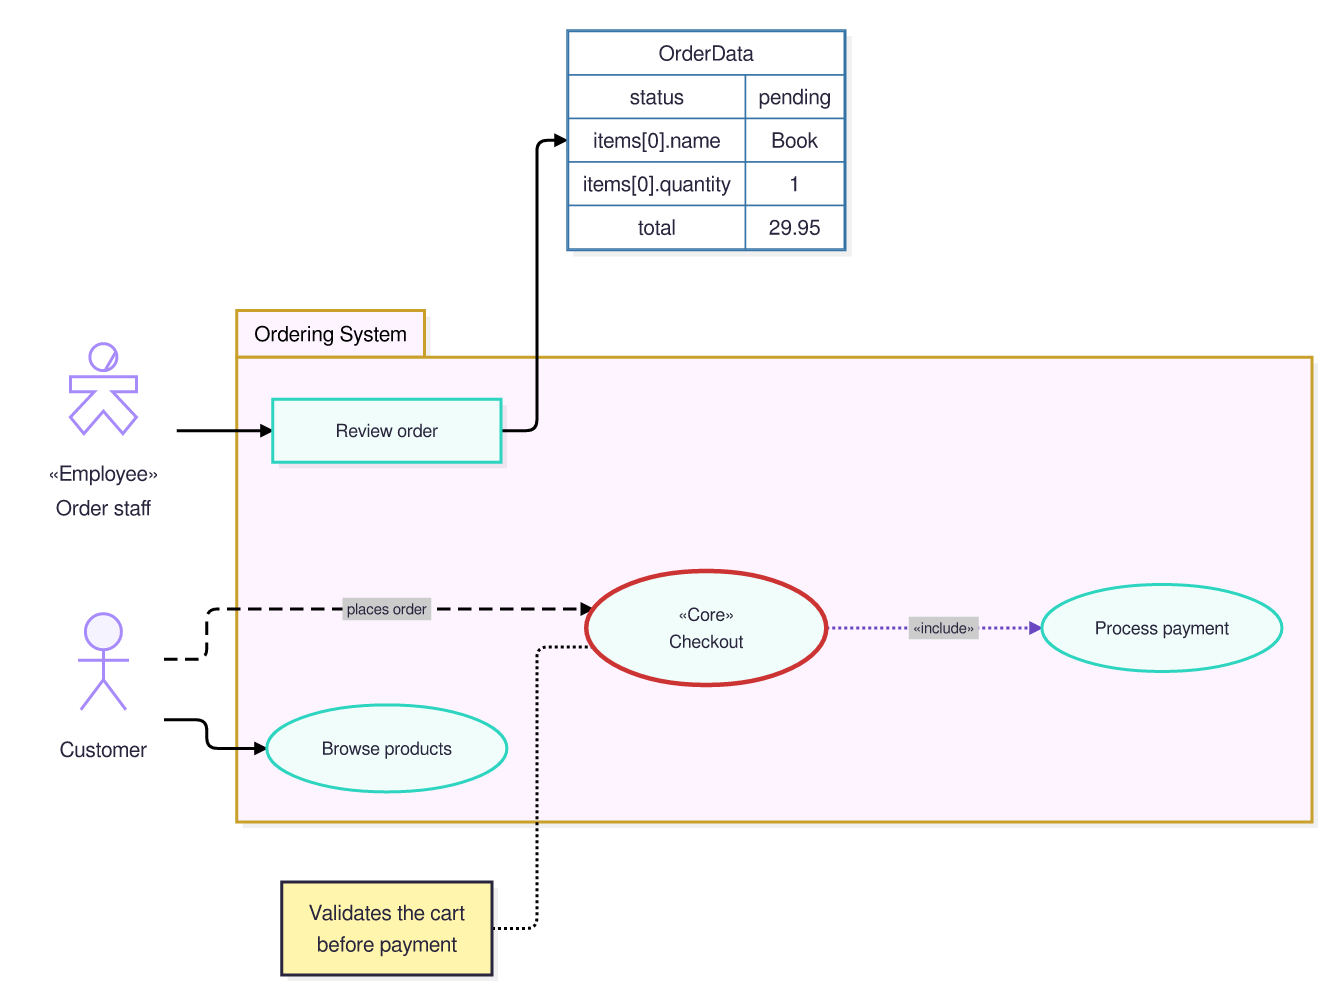
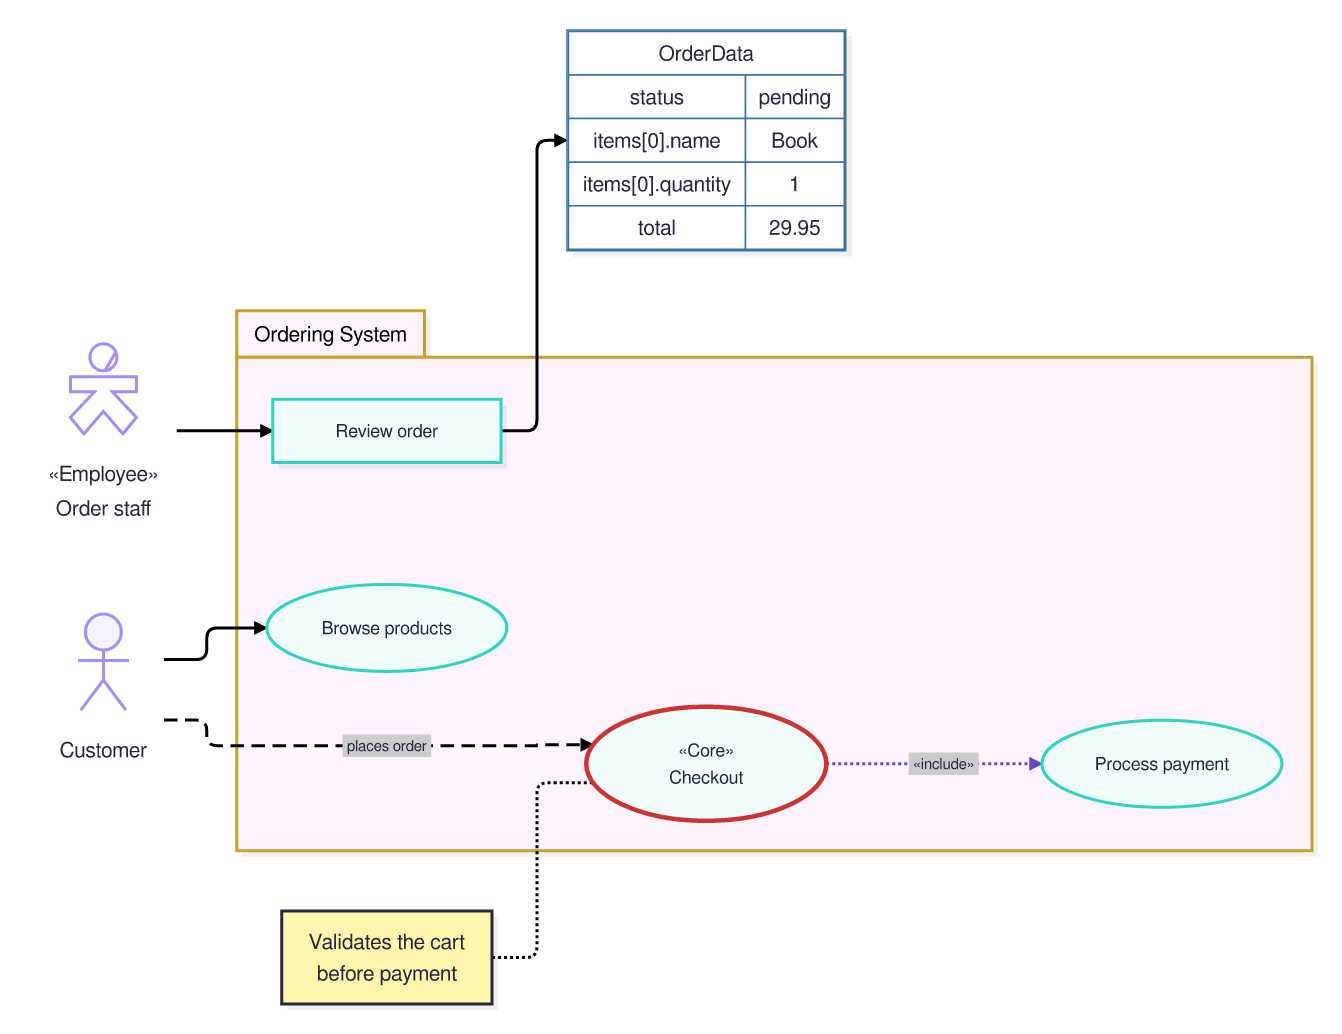
Regenerate gallery after ELK crossing minimisation
Claude-Session: https://claude.ai/code/session_01YSBvDqvT7DHspcB7hQZR6n

diff --git a/docs/GALLERY.md b/docs/GALLERY.md
@@ -5,7 +5,7 @@ Regenerate with `cargo run --release --example gallery`.
 
 ## agentflow
 
-Source: [`examples/diagrams/agentflow.mmd`](../examples/diagrams/agentflow.mmd) · rendered in 642.81µs
+Source: [`examples/diagrams/agentflow.mmd`](../examples/diagrams/agentflow.mmd) · rendered in 679.32µs
 
 <details><summary>source</summary>
 
@@ -37,7 +37,7 @@ agentflow-beta TB
 
 ## architecture
 
-Source: [`examples/diagrams/architecture.mmd`](../examples/diagrams/architecture.mmd) · rendered in 255.14µs
+Source: [`examples/diagrams/architecture.mmd`](../examples/diagrams/architecture.mmd) · rendered in 212.35µs
 
 <details><summary>source</summary>
 
@@ -74,7 +74,7 @@ architecture-beta
 
 ## block
 
-Source: [`examples/diagrams/block.mmd`](../examples/diagrams/block.mmd) · rendered in 242.87µs
+Source: [`examples/diagrams/block.mmd`](../examples/diagrams/block.mmd) · rendered in 217.16µs
 
 <details><summary>source</summary>
 
@@ -109,7 +109,7 @@ block-beta
 
 ## c4-container
 
-Source: [`examples/diagrams/c4-container.mmd`](../examples/diagrams/c4-container.mmd) · rendered in 579.52µs
+Source: [`examples/diagrams/c4-container.mmd`](../examples/diagrams/c4-container.mmd) · rendered in 506.47µs
 
 <details><summary>source</summary>
 
@@ -154,7 +154,7 @@ C4Container
 
 ## c4
 
-Source: [`examples/diagrams/c4.mmd`](../examples/diagrams/c4.mmd) · rendered in 469.22µs
+Source: [`examples/diagrams/c4.mmd`](../examples/diagrams/c4.mmd) · rendered in 947.71µs
 
 <details><summary>source</summary>
 
@@ -209,7 +209,7 @@ C4Context
 
 ## class
 
-Source: [`examples/diagrams/class.mmd`](../examples/diagrams/class.mmd) · rendered in 283.74µs
+Source: [`examples/diagrams/class.mmd`](../examples/diagrams/class.mmd) · rendered in 365.20µs
 
 <details><summary>source</summary>
 
@@ -249,7 +249,7 @@ classDiagram
 
 ## cynefin
 
-Source: [`examples/diagrams/cynefin.mmd`](../examples/diagrams/cynefin.mmd) · rendered in 177.77µs
+Source: [`examples/diagrams/cynefin.mmd`](../examples/diagrams/cynefin.mmd) · rendered in 188.29µs
 
 <details><summary>source</summary>
 
@@ -285,7 +285,7 @@ cynefin-beta
 
 ## er-subgraphs
 
-Source: [`examples/diagrams/er-subgraphs.mmd`](../examples/diagrams/er-subgraphs.mmd) · rendered in 426.36µs
+Source: [`examples/diagrams/er-subgraphs.mmd`](../examples/diagrams/er-subgraphs.mmd) · rendered in 484.02µs
 
 <details><summary>source</summary>
 
@@ -325,7 +325,7 @@ erDiagram
 
 ## er
 
-Source: [`examples/diagrams/er.mmd`](../examples/diagrams/er.mmd) · rendered in 365.62µs
+Source: [`examples/diagrams/er.mmd`](../examples/diagrams/er.mmd) · rendered in 395.36µs
 
 <details><summary>source</summary>
 
@@ -377,7 +377,7 @@ erDiagram
 
 ## eventmodeling
 
-Source: [`examples/diagrams/eventmodeling.mmd`](../examples/diagrams/eventmodeling.mmd) · rendered in 170.12µs
+Source: [`examples/diagrams/eventmodeling.mmd`](../examples/diagrams/eventmodeling.mmd) · rendered in 178.57µs
 
 <details><summary>source</summary>
 
@@ -401,7 +401,7 @@ tf 08 rmo CartItems ->> 03 ->> 07
 
 ## flowchart
 
-Source: [`examples/diagrams/flowchart.mmd`](../examples/diagrams/flowchart.mmd) · rendered in 328.31µs
+Source: [`examples/diagrams/flowchart.mmd`](../examples/diagrams/flowchart.mmd) · rendered in 355.20µs
 
 <details><summary>source</summary>
 
@@ -429,7 +429,7 @@ flowchart TD
 
 ## gantt
 
-Source: [`examples/diagrams/gantt.mmd`](../examples/diagrams/gantt.mmd) · rendered in 795.85µs
+Source: [`examples/diagrams/gantt.mmd`](../examples/diagrams/gantt.mmd) · rendered in 1.28ms
 
 <details><summary>source</summary>
 
@@ -469,7 +469,7 @@ gantt
 
 ## gitgraph
 
-Source: [`examples/diagrams/gitgraph.mmd`](../examples/diagrams/gitgraph.mmd) · rendered in 195.77µs
+Source: [`examples/diagrams/gitgraph.mmd`](../examples/diagrams/gitgraph.mmd) · rendered in 214.04µs
 
 <details><summary>source</summary>
 
@@ -507,7 +507,7 @@ gitGraph
 
 ## info
 
-Source: [`examples/diagrams/info.mmd`](../examples/diagrams/info.mmd) · rendered in 106.78µs
+Source: [`examples/diagrams/info.mmd`](../examples/diagrams/info.mmd) · rendered in 105.85µs
 
 <details><summary>source</summary>
 
@@ -521,7 +521,7 @@ info showInfo
 
 ## ishikawa
 
-Source: [`examples/diagrams/ishikawa.mmd`](../examples/diagrams/ishikawa.mmd) · rendered in 152.53µs
+Source: [`examples/diagrams/ishikawa.mmd`](../examples/diagrams/ishikawa.mmd) · rendered in 159.72µs
 
 <details><summary>source</summary>
 
@@ -554,7 +554,7 @@ ishikawa-beta
 
 ## journey
 
-Source: [`examples/diagrams/journey.mmd`](../examples/diagrams/journey.mmd) · rendered in 249.18µs
+Source: [`examples/diagrams/journey.mmd`](../examples/diagrams/journey.mmd) · rendered in 445.98µs
 
 <details><summary>source</summary>
 
@@ -579,7 +579,7 @@ journey
 
 ## kanban
 
-Source: [`examples/diagrams/kanban.mmd`](../examples/diagrams/kanban.mmd) · rendered in 246.62µs
+Source: [`examples/diagrams/kanban.mmd`](../examples/diagrams/kanban.mmd) · rendered in 260.16µs
 
 <details><summary>source</summary>
 
@@ -614,7 +614,7 @@ kanban
 
 ## mindmap
 
-Source: [`examples/diagrams/mindmap.mmd`](../examples/diagrams/mindmap.mmd) · rendered in 207.69µs
+Source: [`examples/diagrams/mindmap.mmd`](../examples/diagrams/mindmap.mmd) · rendered in 251.38µs
 
 <details><summary>source</summary>
 
@@ -652,7 +652,7 @@ mindmap
 
 ## packet
 
-Source: [`examples/diagrams/packet.mmd`](../examples/diagrams/packet.mmd) · rendered in 325.00µs
+Source: [`examples/diagrams/packet.mmd`](../examples/diagrams/packet.mmd) · rendered in 308.01µs
 
 <details><summary>source</summary>
 
@@ -686,7 +686,7 @@ packet-beta
 
 ## pie
 
-Source: [`examples/diagrams/pie.mmd`](../examples/diagrams/pie.mmd) · rendered in 115.29µs
+Source: [`examples/diagrams/pie.mmd`](../examples/diagrams/pie.mmd) · rendered in 132.74µs
 
 <details><summary>source</summary>
 
@@ -705,7 +705,7 @@ pie showData
 
 ## quadrant
 
-Source: [`examples/diagrams/quadrant.mmd`](../examples/diagrams/quadrant.mmd) · rendered in 133.85µs
+Source: [`examples/diagrams/quadrant.mmd`](../examples/diagrams/quadrant.mmd) · rendered in 152.03µs
 
 <details><summary>source</summary>
 
@@ -734,7 +734,7 @@ quadrantChart
 
 ## radar
 
-Source: [`examples/diagrams/radar.mmd`](../examples/diagrams/radar.mmd) · rendered in 187.43µs
+Source: [`examples/diagrams/radar.mmd`](../examples/diagrams/radar.mmd) · rendered in 234.29µs
 
 <details><summary>source</summary>
 
@@ -762,7 +762,7 @@ radar-beta
 
 ## railroad-abnf
 
-Source: [`examples/diagrams/railroad-abnf.mmd`](../examples/diagrams/railroad-abnf.mmd) · rendered in 190.41µs
+Source: [`examples/diagrams/railroad-abnf.mmd`](../examples/diagrams/railroad-abnf.mmd) · rendered in 209.06µs
 
 <details><summary>source</summary>
 
@@ -783,7 +783,7 @@ port = [ ":" ] 1*5DIGIT %x30-39 ;
 
 ## railroad-ir
 
-Source: [`examples/diagrams/railroad-ir.mmd`](../examples/diagrams/railroad-ir.mmd) · rendered in 180.06µs
+Source: [`examples/diagrams/railroad-ir.mmd`](../examples/diagrams/railroad-ir.mmd) · rendered in 260.46µs
 
 <details><summary>source</summary>
 
@@ -811,7 +811,7 @@ number = sequence(optional(terminal("-")), oneOrMore(nonterminal("digit")), spec
 
 ## railroad-peg
 
-Source: [`examples/diagrams/railroad-peg.mmd`](../examples/diagrams/railroad-peg.mmd) · rendered in 176.33µs
+Source: [`examples/diagrams/railroad-peg.mmd`](../examples/diagrams/railroad-peg.mmd) · rendered in 198.25µs
 
 <details><summary>source</summary>
 
@@ -832,7 +832,7 @@ Identifier <- !Keyword Letter Letter* . ;
 
 ## railroad
 
-Source: [`examples/diagrams/railroad.mmd`](../examples/diagrams/railroad.mmd) · rendered in 203.23µs
+Source: [`examples/diagrams/railroad.mmd`](../examples/diagrams/railroad.mmd) · rendered in 224.55µs
 
 <details><summary>source</summary>
 
@@ -854,7 +854,7 @@ string = '"' { ? any character except quote ? } '"' ;
 
 ## requirement
 
-Source: [`examples/diagrams/requirement.mmd`](../examples/diagrams/requirement.mmd) · rendered in 379.86µs
+Source: [`examples/diagrams/requirement.mmd`](../examples/diagrams/requirement.mmd) · rendered in 384.50µs
 
 <details><summary>source</summary>
 
@@ -936,7 +936,7 @@ requirementDiagram
 
 ## sankey
 
-Source: [`examples/diagrams/sankey.mmd`](../examples/diagrams/sankey.mmd) · rendered in 469.57µs
+Source: [`examples/diagrams/sankey.mmd`](../examples/diagrams/sankey.mmd) · rendered in 509.20µs
 
 <details><summary>source</summary>
 
@@ -981,7 +981,7 @@ Electricity grid,"Heating and cooling, homes",42.0
 
 ## sequence
 
-Source: [`examples/diagrams/sequence.mmd`](../examples/diagrams/sequence.mmd) · rendered in 192.92µs
+Source: [`examples/diagrams/sequence.mmd`](../examples/diagrams/sequence.mmd) · rendered in 195.75µs
 
 <details><summary>source</summary>
 
@@ -1016,7 +1016,7 @@ sequenceDiagram
 
 ## shapes
 
-Source: [`examples/diagrams/shapes.mmd`](../examples/diagrams/shapes.mmd) · rendered in 836.59µs
+Source: [`examples/diagrams/shapes.mmd`](../examples/diagrams/shapes.mmd) · rendered in 1.15ms
 
 <details><summary>source</summary>
 
@@ -1052,7 +1052,7 @@ flowchart LR
 
 ## state
 
-Source: [`examples/diagrams/state.mmd`](../examples/diagrams/state.mmd) · rendered in 369.39µs
+Source: [`examples/diagrams/state.mmd`](../examples/diagrams/state.mmd) · rendered in 460.26µs
 
 <details><summary>source</summary>
 
@@ -1080,7 +1080,7 @@ stateDiagram-v2
 
 ## subgraph-collapse
 
-Source: [`examples/diagrams/subgraph-collapse.mmd`](../examples/diagrams/subgraph-collapse.mmd) · rendered in 296.57µs
+Source: [`examples/diagrams/subgraph-collapse.mmd`](../examples/diagrams/subgraph-collapse.mmd) · rendered in 401.30µs
 
 <details><summary>source</summary>
 
@@ -1110,7 +1110,7 @@ flowchart LR
 
 ## subgraphs
 
-Source: [`examples/diagrams/subgraphs.mmd`](../examples/diagrams/subgraphs.mmd) · rendered in 340.33µs
+Source: [`examples/diagrams/subgraphs.mmd`](../examples/diagrams/subgraphs.mmd) · rendered in 404.25µs
 
 <details><summary>source</summary>
 
@@ -1141,7 +1141,7 @@ flowchart LR
 
 ## swimlane
 
-Source: [`examples/diagrams/swimlane.mmd`](../examples/diagrams/swimlane.mmd) · rendered in 260.10µs
+Source: [`examples/diagrams/swimlane.mmd`](../examples/diagrams/swimlane.mmd) · rendered in 263.55µs
 
 <details><summary>source</summary>
 
@@ -1171,7 +1171,7 @@ swimlane-beta LR
 
 ## timeline
 
-Source: [`examples/diagrams/timeline.mmd`](../examples/diagrams/timeline.mmd) · rendered in 420.97µs
+Source: [`examples/diagrams/timeline.mmd`](../examples/diagrams/timeline.mmd) · rendered in 356.31µs
 
 <details><summary>source</summary>
 
@@ -1196,7 +1196,7 @@ timeline
 
 ## treemap
 
-Source: [`examples/diagrams/treemap.mmd`](../examples/diagrams/treemap.mmd) · rendered in 173.19µs
+Source: [`examples/diagrams/treemap.mmd`](../examples/diagrams/treemap.mmd) · rendered in 202.90µs
 
 <details><summary>source</summary>
 
@@ -1233,7 +1233,7 @@ classDef highlight fill:#ffd166,stroke:#c77d00,color:#000
 
 ## treeview
 
-Source: [`examples/diagrams/treeview.mmd`](../examples/diagrams/treeview.mmd) · rendered in 159.03µs
+Source: [`examples/diagrams/treeview.mmd`](../examples/diagrams/treeview.mmd) · rendered in 160.80µs
 
 <details><summary>source</summary>
 
@@ -1259,7 +1259,7 @@ treeView-beta
 
 ## usecase
 
-Source: [`examples/diagrams/usecase.mmd`](../examples/diagrams/usecase.mmd) · rendered in 419.72µs
+Source: [`examples/diagrams/usecase.mmd`](../examples/diagrams/usecase.mmd) · rendered in 510.98µs
 
 <details><summary>source</summary>
 
@@ -1303,7 +1303,7 @@ style pays stroke:#6b46c1,stroke-width:2px
 
 ## venn
 
-Source: [`examples/diagrams/venn.mmd`](../examples/diagrams/venn.mmd) · rendered in 416.72µs
+Source: [`examples/diagrams/venn.mmd`](../examples/diagrams/venn.mmd) · rendered in 487.93µs
 
 <details><summary>source</summary>
 
@@ -1327,7 +1327,7 @@ venn-beta
 
 ## wardley
 
-Source: [`examples/diagrams/wardley.mmd`](../examples/diagrams/wardley.mmd) · rendered in 207.08µs
+Source: [`examples/diagrams/wardley.mmd`](../examples/diagrams/wardley.mmd) · rendered in 195.12µs
 
 <details><summary>source</summary>
 
@@ -1376,7 +1376,7 @@ note "Migrate to cloud-native database" [0.60, 0.50]
 
 ## xychart
 
-Source: [`examples/diagrams/xychart.mmd`](../examples/diagrams/xychart.mmd) · rendered in 179.76µs
+Source: [`examples/diagrams/xychart.mmd`](../examples/diagrams/xychart.mmd) · rendered in 199.34µs
 
 <details><summary>source</summary>
 
@@ -1396,7 +1396,7 @@ xychart-beta
 
 ## zenuml
 
-Source: [`examples/diagrams/zenuml.mmd`](../examples/diagrams/zenuml.mmd) · rendered in 242.87µs
+Source: [`examples/diagrams/zenuml.mmd`](../examples/diagrams/zenuml.mmd) · rendered in 344.45µs
 
 <details><summary>source</summary>
 
